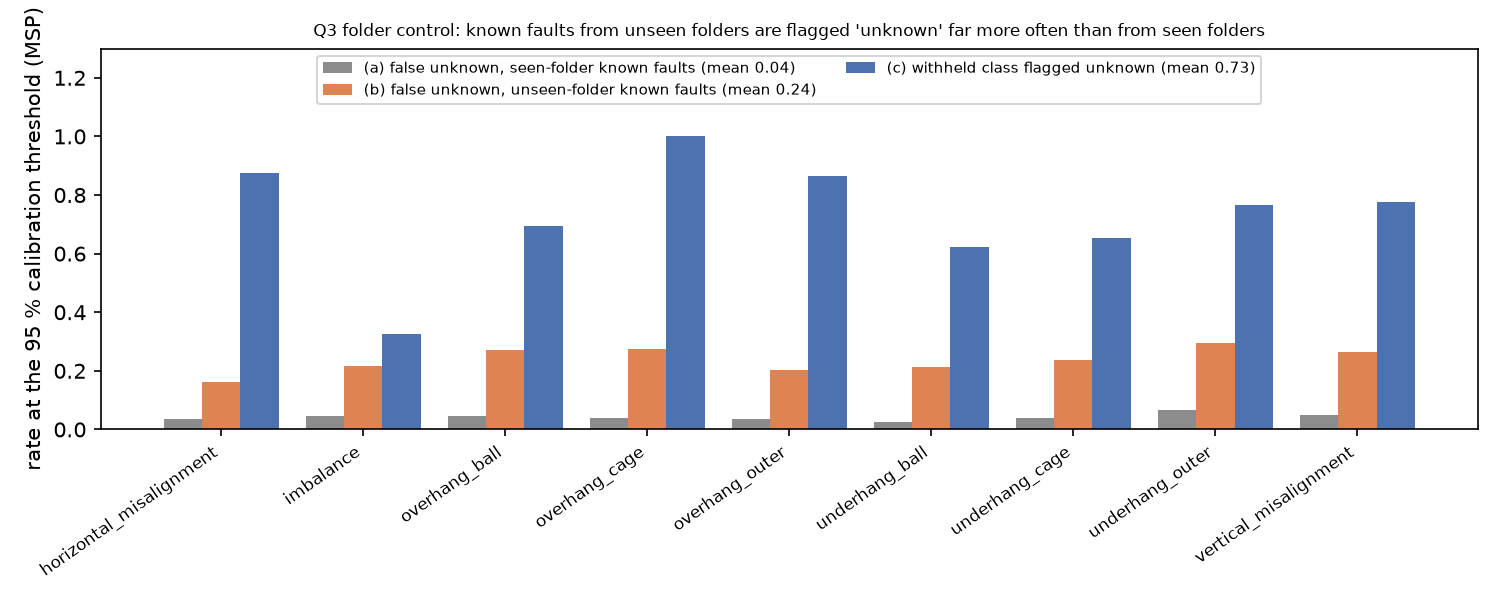
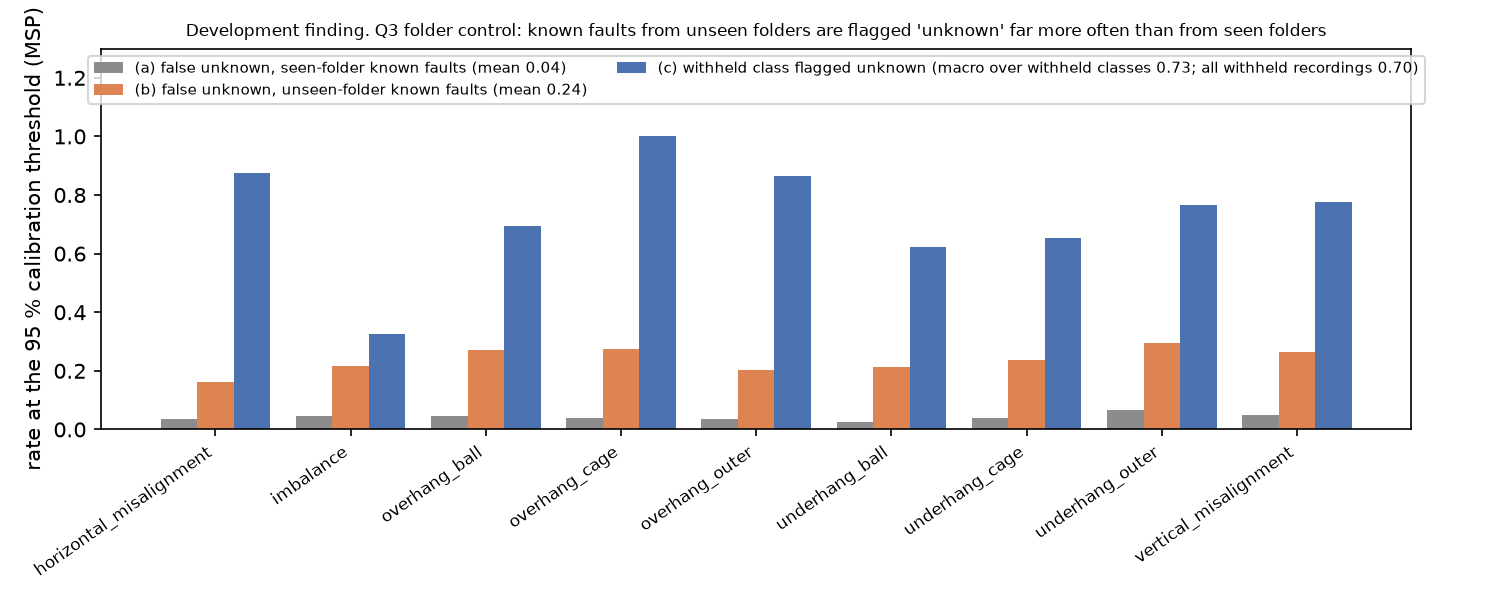
Clarify Q1/Q3 wording and set the Stage 3A scope rules
Label Q3 unknown recall as 73 % macro over withheld classes and 70 % over all withheld
recordings; state Q1 acceptance as measured 0.80 vs the ~0.85 theoretical reference;
explain that AUROC is separation, not accuracy; mark the 0.048 energy value superseded;
update the plan notes; label classical Q1/Q3 numbers as development findings. CLAUDE.md
§7 now carries the Stage 3A scope rules (Q2-only embeddings, early fusion only, one seed).

diff --git a/SystemCode/scripts/13_q1q3_figures.py b/SystemCode/scripts/13_q1q3_figures.py
@@ -52,7 +52,7 @@ def q1_figures(q1: dict) -> str:
         ax.text(i, 0.505, f"{v:.3f}", ha="center", fontsize=7, color="w")
     ax.set_xticks(range(len(cls)), cls, rotation=35, ha="right", fontsize=8)
     ax.set(ylim=(0.5, 1.01), ylabel="AUROC, held-out healthy vs class")
-    ax.set_title(f"Q1 {best}: per-class AUROC, mean of 3 dev folds (bars: fold min–max). Overall "
+    ax.set_title(f"Development finding. Q1 {best}: per-class AUROC, mean of 3 dev folds (bars: fold min–max). Overall "
                  f"{a['auroc_fold_mean']['overall']:.3f} ± {a['auroc_fold_std']['overall']:.3f}. "
                  f"Healthy: 25 recordings, one folder", fontsize=8)
     _save(fig, "q1_auroc_best_rung.png")
@@ -92,7 +92,7 @@ def q1_figures(q1: dict) -> str:
                label=f"{lab}: {s['false_alarms_total']}/{n_h} false alarms")
     ax.set_xticks(x, [f"{k}\n(n={a['detection_mildest'][k]['n']})" for k in mild], rotation=30, ha="right", fontsize=7)
     ax.set(ylim=(0, 1.3), ylabel="detection rate at the calibrated threshold")
-    ax.set_title("Q1 mildest severity per fault class (dev pool; thresholds from separate calibration healthy)",
+    ax.set_title("Development finding. Q1 mildest severity per fault class (dev pool; thresholds from separate calibration healthy)",
                  fontsize=8)
     ax.legend(fontsize=7, loc="upper center", ncol=len(series))
     _save(fig, "q1_mildest_detection.png")
@@ -112,7 +112,7 @@ def q3_figures(q3: dict) -> None:
     ax.axhline(0.5, color="k", lw=0.6, ls=":")
     ax.set_xticks(x, idx, rotation=35, ha="right", fontsize=8)
     ax.set(ylim=(0, 1.3), ylabel="AUROC, fold-k known vs withheld class")
-    ax.set_title("Q3 unknown-fault detection, LOCO over 9 fault classes (logistic regression; mean ± std over 3 dev "
+    ax.set_title("Development finding. Q3 unknown-fault detection, LOCO over 9 fault classes (logistic regression; mean ± std over 3 dev "
                  "folds)", fontsize=8)
     ax.legend(fontsize=7, loc="upper center", ncol=3)
     _save(fig, "q3_loco_auroc.png")
@@ -123,11 +123,12 @@ def q3_figures(q3: dict) -> None:
     for i, (col, lab, colr) in enumerate([
             ("fu_seen_known_faults_macro", f"(a) false unknown, seen-folder known faults (mean {s['fu_seen_known_faults_macro_mean']:.2f})", "#8c8c8c"),
             ("fu_unseen_known_faults_macro", f"(b) false unknown, unseen-folder known faults (mean {s['fu_unseen_known_faults_macro_mean']:.2f})", "#dd8452"),
-            ("unknown_recall", f"(c) withheld class flagged unknown (mean {s['unknown_recall_class_mean_std'][0]:.2f})", "#4c72b0")]):
+            ("unknown_recall", f"(c) withheld class flagged unknown (macro over withheld classes {s['unknown_recall_class_mean_std'][0]:.2f}; "
+             f"all withheld recordings {1 - s['withheld_faults_passing_as_known']:.2f})", "#4c72b0")]):
         ax.bar(x + (i - 1) * 0.27, p[col], width=0.27, color=colr, label=lab)
     ax.set_xticks(x, idx, rotation=35, ha="right", fontsize=8)
     ax.set(ylim=(0, 1.3), ylabel="rate at the 95 % calibration threshold (MSP)")
-    ax.set_title("Q3 folder control: known faults from unseen folders are flagged 'unknown' far more often than from "
+    ax.set_title("Development finding. Q3 folder control: known faults from unseen folders are flagged 'unknown' far more often than from "
                  "seen folders", fontsize=8)
     ax.legend(fontsize=7, loc="upper center", ncol=2)
     _save(fig, "q3_folder_control.png")

diff --git a/SystemCode/results/audit_report.md b/SystemCode/results/audit_report.md
@@ -363,11 +363,13 @@ Source: `notebooks/01_data_layer/02_signal_exploration.ipynb`, caches from `scri
 - Protocol comparison (not a leakage estimate; training sizes matched exactly): window-level macro-F1 1.000
   window-random, 0.984 recording-grouped, 0.878 folder-grouped.
 
-### Plan notes (planned controls, not yet implemented; also in CLAUDE.md §7b)
-- **Q1:** detection rate at the mildest severities; with vs without the microphone.
+### Plan notes (also in CLAUDE.md §7b; status updated in Stage 3A)
+- **Q1:** detection rate at the mildest severities; with vs without the microphone. **Done** on development data
+  (Stage 2D.1, below).
 - **Q2:** the `split_severity` test is the main severity-extrapolation result across held-out folder proxies,
   evaluated once at the end.
-- **Q3:** false-unknown rate on known classes at held-out severities.
+- **Q3:** false-unknown rate on known classes at held-out severities. Covered on **development data** by control (b)
+  (unseen-folder known faults, Stage 2D.1); the `split_severity` test stays sealed.
 
 ### Decisions and facts of 27 Sep 2026 (Stage 2C-2/2D)
 - **Representation:** candidate C (order-domain resampling, 8 rev × 512 samples/rev, Kaiser anti-alias at 205 × speed,
@@ -395,10 +397,12 @@ Source: `notebooks/01_data_layer/02_signal_exploration.ipynb`, caches from `scri
   were also scored by averaging over fold models. The corrected protocol (Stage 2D.1, CLAUDE.md §5 rule 13) replaces
   them; see the Q1/Q3 summary below.
 - **One-class SVM:** limited useful separation (saturated scores).
-- **Energy score:** its inversion for withheld overhang ball (AUROC 0.048) is a **reported failure**; its direction is
-  fixed and must not be reversed after inspecting the withheld class.
+- **Energy score:** its inversion for withheld overhang ball is a **reported failure**; its direction is fixed and must
+  not be reversed after inspecting the withheld class. The value 0.048 (averaged-fold protocol) is **superseded** by
+  0.073 under the corrected protocol (Stage 2D.1).
 
 ### Q1 and Q3 in plain language, corrected protocol (Stage 2D.1, 27 Sep 2026)
+All numbers in this section are **development findings** on the development pool, **not reserved-test results**.
 Development pool and `dev_folds.csv` only (3 folder-grouped folds); every evaluated recording is scored once, by its own
 fold's model; thresholds come from separate calibration recordings; fold-mean metrics are the primary summaries.
 Outputs: `results/q1q3/q1_corrected.json`, `q3_corrected.json`, `q3_per_class_*.csv`; figures in `results/figures/q1_*`
@@ -406,17 +410,21 @@ and `q3_*`.
 
 **Q1: can a detector trained only on healthy recordings tell faults apart?** Mostly yes, on this data. The best
 detector (speed-aware polynomial baseline, B1s) ranks faults above healthy with AUROC 0.990 ± 0.013 over the three
-folds (worst fold 0.971); eight of nine detectors lie between 0.978 and 0.990, the simple rules (B0) at 0.912. The
+folds (worst fold 0.971). This AUROC describes separation between healthy and fault scores; it is not accuracy and
+does not imply reliable alarm settings. Eight of nine detectors lie between 0.978 and 0.990, the simple rules (B0) at 0.912. The
 hardest classes are horizontal misalignment (0.956) and overhang outer race (0.965). At a threshold set to the largest
 calibration healthy score (6, 6 and 5 calibration recordings per fold), B1s raised 5 false alarms on 25 held-out
 healthy recordings (approximate 95 % interval 7–41 %) and detected every fault recording, including every mildest
-severity. Without the microphone: AUROC 0.992 ± 0.009, 6/25 false alarms, all faults detected. The simple rules miss
+severity. Without the microphone: AUROC 0.992 ± 0.009, 6/25 false alarms, all faults detected. Q1 separation remains
+strong without the microphone; this supports vibration as useful evidence here, not that the microphone is unnecessary
+for the whole project. The simple rules miss
 most mild imbalance (6 g: 35 %) and mild horizontal misalignment (0.5 mm: 20 %).
 
 **Q3: does a classifier notice a fault type it was never trained on?** Partly. With logistic regression and the
 maximum class probability (MSP, primary score), a withheld fault type is ranked above known faults with AUROC
 0.842 ± 0.080 over the nine classes (fold values 0.51–0.97); OSCR 0.828 ± 0.078. At the 95 % calibration threshold,
-73 % of withheld-fault recordings are flagged unknown, so **30 % of withheld faults pass as a known class**. Imbalance
+unknown recall is **73 % as the macro average across withheld fault classes** and **70 % as the rate across all withheld
+recordings**; so **30 % of all withheld recordings pass as a known class**. Imbalance
 is hardest (recall 33 %, AUROC 0.66).
 
 **Folder control.** Known-fault recordings from folders the model saw in training are wrongly flagged unknown 4 % of
@@ -431,8 +439,8 @@ overhang ball (AUROC 0.085 and 0.073; none flagged): the classifier is more conf
 known ones. Directions were fixed before running and were not changed.
 
 **Caveats.** The healthy sample is small (25 recordings, one folder, three folds): a single false alarm moves the
-rate by 4 points, and measured acceptance (0.72–0.88 across detectors) differs from the ≈ 0.85 the threshold rule
-implies. Q3 calibration sets hold 71–83 recordings (attainable acceptance 0.950–0.962). Folders are proxies for sessions.
+rate by 4 points. About 0.85 acceptance is a theoretical reference under exchangeability; the measured acceptance for the
+leading detector (B1s) was 0.80 (5/25 false alarms), and 0.72–0.88 across detectors. Q3 calibration sets hold 71–83 recordings (attainable acceptance 0.950–0.962). Folders are proxies for sessions.
 These are classical development baselines, not final results.
 
 ## 10. Open items and unresolved observations

diff --git a/CLAUDE.md b/CLAUDE.md
@@ -267,29 +267,43 @@ into `ml/`, the scripts and the app.
 - Figures: matplotlib, labelled axes with units, saved to `results/figures/` when they are report material.
 - Strip outputs on commit (`nbstripout`). Before the final ZIP, run all notebooks and export them to HTML.
 
-## 7. Current stage: Stage 2D.1 — corrected Q1/Q3 protocol and context-aware normalisation
+## 7. Current stage: Stage 3A — scratch 2D CNN (early fusion) on cache C, Q2 development evaluation
 
-Candidate C and its cache are kept; no representation work, no new features. Models: refits of the existing detectors
-and logistic regression only. Development pool and `results/dev_folds.csv` only; reserved tests sealed; LOCO rule unchanged.
-Principles: rule 13 in §5 and `ml/protocol.py`.
+Dev pool and `results/dev_folds.csv` only (K = 3 outer folds, each pool recording scored once by its own fold's model);
+reserved tests sealed; the training process never imports LightGBM. Not in this stage: autoencoder, LOCO, arbitrator,
+ResNet, late fusion.
 
-0. Wording fixes (speed check, calibration vs generalisation rates, one-class SVM, energy failure).
-1. Q1 corrected: per outer fold, fit/calibration split of the outer-training normals (2:1, speed-stratified), threshold =
-   maximum calibration score, evaluation on fold k only; per-fold AUROC primary.
-2. Q3 corrected: per withheld class and outer fold, fit / calibration / seen-folder evaluation split (4:1:1 within each
-   folder, speed-stratified); per-score order-statistic thresholds; (a) seen-folder vs (b) unseen-folder false-unknown
-   rates on known fault classes; (c) unknown recall; per-fold AUROC and OSCR primary.
-3. `ml.datasets.norm_stats`: named-track mode and a development mode with explicit fit IDs and a context.
-4. Updated deck figures and a plain-language Q1/Q3 summary in the audit report.
+**Scope rules (fixed before running):**
+- **Q2 only.** These CNNs are trained on all ten classes; their embeddings and scores are for Q2 analysis ONLY and are
+  tagged "Q2-only; trained on all 10 classes; not valid for LOCO". Later LOCO experiments (Stage 3C) must retrain the
+  encoder without the withheld fault class and exclude that class from normalisation, calibration and threshold
+  selection. Stage 3A outputs must not be reused for Q3.
+- **Early fusion only** (all sensor channels into one CNN). Late fusion (separate sensor branches combined later) stays on
+  the roadmap; the fusion study is not complete after this stage. CNN-7 vs CNN-6 is an early-fusion preview.
+- **One training seed.** Bootstrap intervals describe uncertainty from the evaluated recordings and folders, not
+  variation between CNN training runs.
 
-## 7b. Plan notes (planned controls, not yet implemented)
+0. Documentation fixes (Q3 recall labels, Q1 acceptance and AUROC wording, superseded energy value, §7b status,
+   microphone wording, development-finding labels).
+1. Training infrastructure: `ml/models/cnn.py`, `ml/train.py`, `ml/datasets.py` additions; normalisation from
+   `norm_stats` in development mode (fit_ids = the fold's training recordings); fixed epochs, AdamW + cosine, batch 256,
+   class-weighted cross-entropy, training-only augmentation; tests on CPU.
+2. Smoke run (one fold, few epochs, subset): loss decreases, MPS step time and memory, projected training time.
+3. Development evaluation: CNN-7 (vibration + mic) and CNN-6 (vibration only); recording-level mean log-probability;
+   class10/class6 macro-F1 and balanced accuracy with the mixed-unit bootstrap; paired comparisons vs logistic regression
+   and CNN-7 vs CNN-6.
+4. Notebook `06_cnn_scratch` (architecture, curves, per-fold results, confusion matrices, paired comparisons, one PCA
+   per fold model).
 
-Recorded 26 Sep 2026 (Stage 2B.1). Each runs when its stage comes; none is implemented yet.
+## 7b. Plan notes (planned controls)
+
+Recorded 26 Sep 2026 (Stage 2B.1); status updated in Stage 3A.
 - **Q1 (detection):** report the detection rate at the **mildest severities** of each fault family, and compare the
-  detector **with vs without the microphone**.
+  detector **with vs without the microphone**. **Done** on development data (Stage 2D.1, classical detectors).
 - **Q2 (severity extrapolation):** the `split_severity` test is the main severity-extrapolation result, across held-out
   folder proxies, **evaluated once at the end**.
-- **Q3 (open set):** report the **false-unknown rate on known classes at held-out severities**.
+- **Q3 (open set):** report the **false-unknown rate on known classes at held-out severities**. Covered on development
+  data by control (b) of Stage 2D.1 (unseen-folder known faults); the `split_severity` test stays sealed.
 - Development evaluation (Stage 2B.1): folder-grouped folds on the development pool (`split_closed` ∈ {train, val},
   `split_severity` ≠ test, `split_speed_block` ≠ test); folders are proxies for sessions. Model selection uses permitted
   development data only; closed-set ties are broken by simplicity and measured latency; reserved tests are never used for
